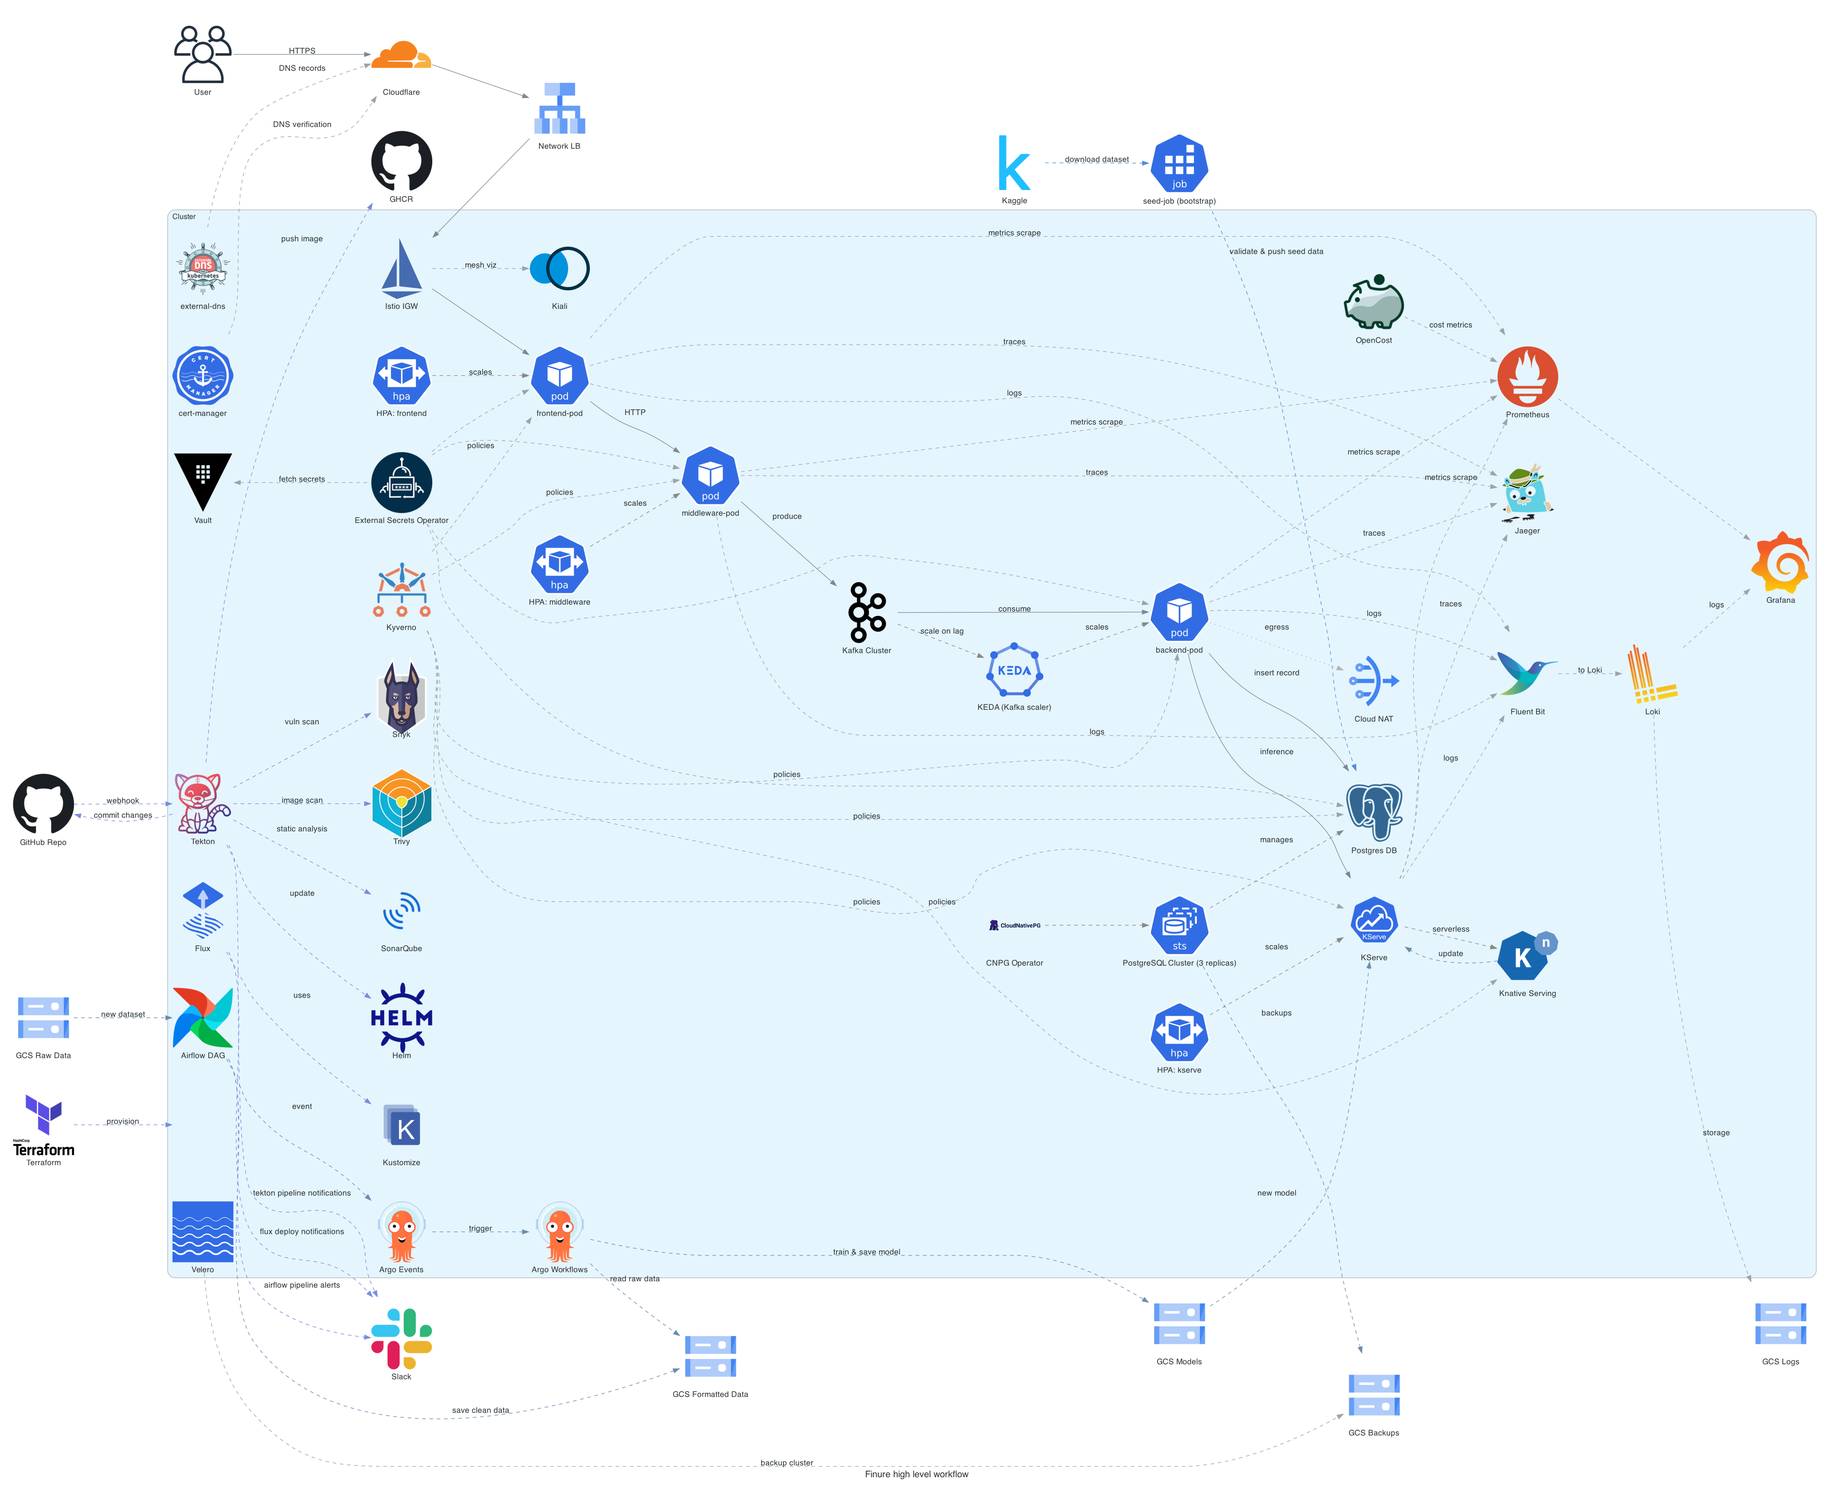
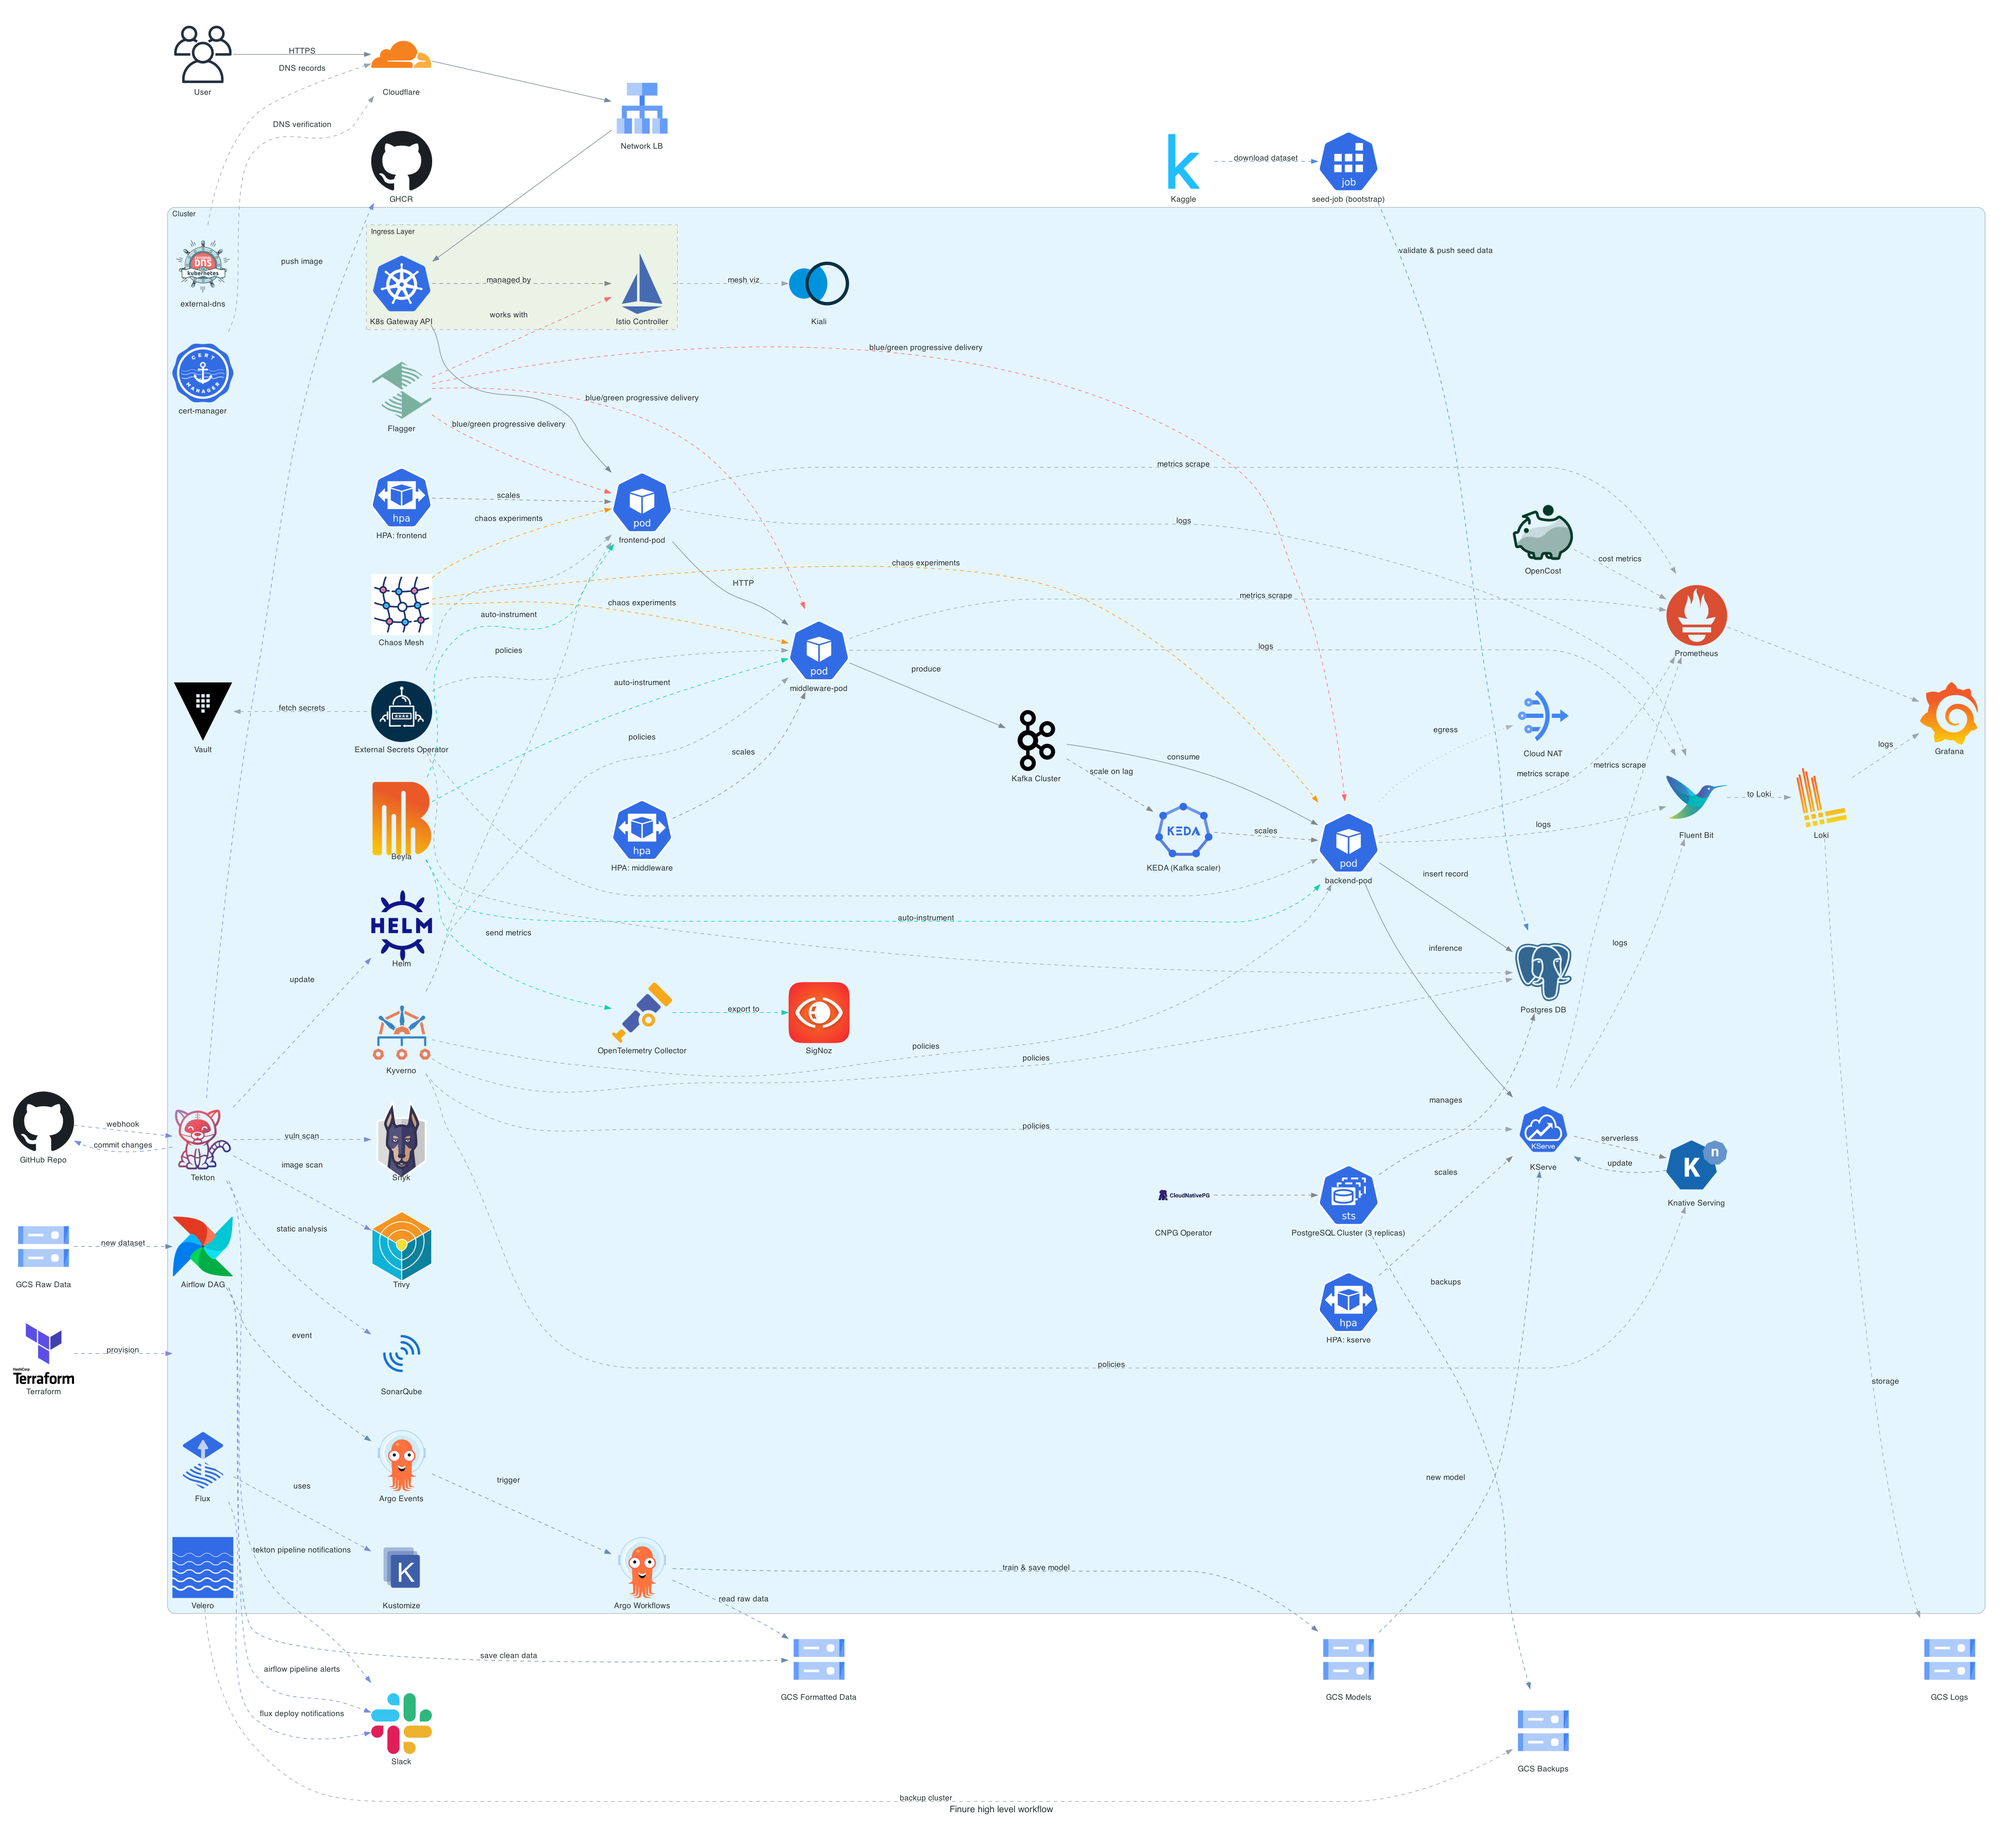
docs: dac & readme update

diff --git a/diagrams-as-code/diagram.py b/diagrams-as-code/diagram.py
@@ -6,10 +6,10 @@ from diagrams.gcp.storage import Storage
 from diagrams.onprem.network import Istio
 from diagrams.k8s.compute import Pod, StatefulSet, Job
 from diagrams.k8s.clusterconfig import HPA
+from diagrams.k8s.chaos import ChaosMesh
 from diagrams.onprem.database import PostgreSQL
 from diagrams.onprem.monitoring import Prometheus, Grafana
 from diagrams.onprem.logging import Loki, Fluentbit
-from diagrams.onprem.tracing import Jaeger
 from diagrams.k8s.ecosystem import ExternalDns, Helm, Kustomize
 from diagrams.onprem.gitops import Flux, Argocd
 from diagrams.saas.chat import Slack
@@ -22,19 +22,24 @@ from diagrams.onprem.iac import Terraform
 from diagrams.custom import Custom
 
 # Custom icons
-KServeIcon   = lambda label: Custom(label, "./icons/kserve.png")
-KnativeIcon  = lambda label: Custom(label, "./icons/knative.png")
+KServeIcon = lambda label: Custom(label, "./icons/kserve.png")
+KnativeIcon = lambda label: Custom(label, "./icons/knative.png")
 CNPGOperIcon = lambda label: Custom(label, "./icons/cnpg-operator.png")
-ESOIcon      = lambda label: Custom(label, "./icons/external-secrets.png")
-KyvernoIcon  = lambda label: Custom(label, "./icons/kyverno.png")
-VeleroIcon   = lambda label: Custom(label, "./icons/velero.png")
-KialiIcon    = lambda label: Custom(label, "./icons/kiali.png")
-CertMgrIcon  = lambda label: Custom(label, "./icons/cert-manager.png")
-SonarIcon    = lambda label: Custom(label, "./icons/sonarqube.png")
-SnykIcon     = lambda label: Custom(label, "./icons/snyk.png")
+ESOIcon = lambda label: Custom(label, "./icons/external-secrets.png")
+KyvernoIcon = lambda label: Custom(label, "./icons/kyverno.png")
+VeleroIcon = lambda label: Custom(label, "./icons/velero.png")
+KialiIcon = lambda label: Custom(label, "./icons/kiali.png")
+CertMgrIcon = lambda label: Custom(label, "./icons/cert-manager.png")
+SonarIcon = lambda label: Custom(label, "./icons/sonarqube.png")
+SnykIcon = lambda label: Custom(label, "./icons/snyk.png")
 OpenCostIcon = lambda label: Custom(label, "./icons/opencost.png")
-KaggleIcon   = lambda label: Custom(label, "./icons/kaggle.png")
-KEDAIcon     = lambda label: Custom(label, "./icons/keda.png") 
+KaggleIcon = lambda label: Custom(label, "./icons/kaggle.png")
+KEDAIcon = lambda label: Custom(label, "./icons/keda.png")
+BeylaIcon = lambda label: Custom(label, "./icons/beyla.png")
+OtelIcon = lambda label: Custom(label, "./icons/otel.png")
+SignozIcon = lambda label: Custom(label, "./icons/signoz.png")
+K8sGatewayIcon = lambda label: Custom(label, "./icons/k8s-gateway-api.png")
+FlaggerIcon = lambda label: Custom(label, "./icons/flagger.png")
 
 with Diagram(
     "Finure high level workflow",
@@ -56,19 +61,22 @@ with Diagram(
     gcs_raw = Storage("GCS Raw Data")
     gcs_formatted = Storage("GCS Formatted Data")
     gcs_models = Storage("GCS Models")
-    gcs_logs  = Storage("GCS Logs")
-    gcs_bkp   = Storage("GCS Backups")
+    gcs_logs = Storage("GCS Logs")
+    gcs_bkp = Storage("GCS Backups")
     slack = Slack("Slack")
     github = Github("GitHub Repo")
     ghcr = Github("GHCR")
     terraform = Terraform("Terraform")
-
     kaggle = KaggleIcon("Kaggle")
     seed_job = Job("seed-job (bootstrap)")
 
     with Cluster("Cluster"):
         cloud_nat = NAT("Cloud NAT")
-        istio_ing = Istio("Istio IGW")
+        
+        with Cluster("Ingress Layer", graph_attr={"style": "dashed"}):
+            k8s_gateway = K8sGatewayIcon("K8s Gateway API")
+            istio_controller = Istio("Istio Controller")
+        
         fe_pod = Pod("frontend-pod")
         mw_pod = Pod("middleware-pod")
         kafka = Kafka("Kafka Cluster")
@@ -93,7 +101,7 @@ with Diagram(
         kyverno = KyvernoIcon("Kyverno")
         velero = VeleroIcon("Velero")
         flux = Flux("Flux")
-        kustomize = Kustomize("Kustomize") 
+        kustomize = Kustomize("Kustomize")
         vault = Vault("Vault")
         opencost = OpenCostIcon("OpenCost")
         airflow = Airflow("Airflow DAG")
@@ -104,12 +112,21 @@ with Diagram(
         trivy = Trivy("Trivy")
         snyk = SnykIcon("Snyk")
         helm = Helm("Helm")
-        jaeger = Jaeger("Jaeger")
         cluster_node = Custom("", "./icons/gke-cluster.png")
+        
+        beyla = BeylaIcon("Beyla")
+        otel_collector = OtelIcon("OpenTelemetry Collector")
+        signoz = SignozIcon("SigNoz")
+        
+        flagger = FlaggerIcon("Flagger")
+        
+        chaos_mesh = ChaosMesh("Chaos Mesh")
+
+    user >> Edge(label="HTTPS") >> cloudflare >> nlb >> k8s_gateway
+    k8s_gateway >> fe_pod >> Edge(label="HTTP") >> mw_pod
     
     # Entry
-    user >> Edge(label="HTTPS") >> cloudflare >> nlb >> istio_ing
-    istio_ing >> fe_pod >> Edge(label="HTTP") >> mw_pod
+    k8s_gateway >> Edge(label="managed by", style="dashed", color="#888", dir="both") >> istio_controller
     mw_pod >> Edge(label="produce") >> kafka
     kafka >> Edge(label="consume") >> be_pod
     be_pod >> Edge(label="inference") >> kserve_pod
@@ -129,11 +146,9 @@ with Diagram(
     gcs_raw >> Edge(label="new dataset", style="dashed", color="#6a8caf") >> airflow
     airflow >> Edge(label="save clean data", style="dashed", color="#6a8caf") >> gcs_formatted
     airflow >> Edge(label="event", style="dashed", color="#6a8caf") >> argo_events
-
     argo_events >> Edge(label="trigger", style="dashed", color="#6a8caf") >> argo_workflows
     argo_workflows >> Edge(label="read raw data", style="dashed", color="#6a8caf") >> gcs_formatted
     argo_workflows >> Edge(label="train & save model", style="dashed", color="#6a8caf") >> gcs_models
-
     gcs_models >> Edge(label="new model", style="dashed", color="#6a8caf") >> kserve_pod
     knative >> Edge(label="update", style="dashed", color="#6a8caf") >> kserve_pod
 
@@ -150,22 +165,43 @@ with Diagram(
     tekton >> Edge(label="tekton pipeline notifications", style="dashed", color="#7b8cde") >> slack
     airflow >> Edge(label="airflow pipeline alerts", style="dashed", color="#7b8cde") >> slack
 
+    # Progressive Delivery with Flagger
+    flagger_edge = {"style": "dashed", "color": "#ff6b6b"}
+    flagger >> Edge(label="blue/green progressive delivery", **flagger_edge) >> fe_pod
+    flagger >> Edge(label="blue/green progressive delivery", **flagger_edge) >> mw_pod
+    flagger >> Edge(label="blue/green progressive delivery", **flagger_edge) >> be_pod
+    flagger >> Edge(label="works with", **flagger_edge) >> istio_controller
+
+    # Auto-instrumentation with Beyla, OTel and SigNoz
+    instrumentation_edge = {"style": "dashed", "color": "#00d4aa"}
+    beyla >> Edge(label="auto-instrument", **instrumentation_edge) >> fe_pod
+    beyla >> Edge(label="auto-instrument", **instrumentation_edge) >> mw_pod
+    beyla >> Edge(label="auto-instrument", **instrumentation_edge) >> be_pod
+    beyla >> Edge(label="send metrics", **instrumentation_edge) >> otel_collector
+    otel_collector >> Edge(label="export to", **instrumentation_edge) >> signoz
+
+    # Chaos Engineering
+    chaos_edge = {"style": "dashed", "color": "#ff9500"}
+    chaos_mesh >> Edge(label="chaos experiments", **chaos_edge) >> fe_pod
+    chaos_mesh >> Edge(label="chaos experiments", **chaos_edge) >> mw_pod
+    chaos_mesh >> Edge(label="chaos experiments", **chaos_edge) >> be_pod
+
     # Observability
     subtle = {"style": "dashed", "color": "#9aa4ad"}
     for w in [fe_pod, mw_pod, be_pod, kserve_pod]:
         w >> Edge(label="metrics scrape", **subtle) >> prom
         w >> Edge(label="logs", **subtle) >> fluentbit
-        w >> Edge(label="traces", **subtle) >> jaeger
+
     prom >> Edge(**subtle) >> graf
     fluentbit >> Edge(label="to Loki", **subtle) >> loki
     loki >> Edge(label="storage", **subtle) >> gcs_logs
     loki >> Edge(label="logs", **subtle) >> graf
-    istio_ing >> Edge(label="mesh viz", **subtle) >> kiali
+    istio_controller >> Edge(label="mesh viz", **subtle) >> kiali
     opencost >> Edge(label="cost metrics", **subtle) >> prom
 
     # DNS/TLS
     certmgr >> Edge(label="DNS verification", **subtle) >> cloudflare
-    extdns  >> Edge(label="DNS records", **subtle) >> cloudflare
+    extdns >> Edge(label="DNS records", **subtle) >> cloudflare
 
     # Secrets
     vault << Edge(label="fetch secrets", **subtle) << eso

diff --git a/profile/README.md b/profile/README.md
@@ -19,11 +19,13 @@ Finure is a cloud-native application designed to streamline the credit card appl
 - Parallel, Reliable & Governed Infra Changes: Atlantis integration for PR-based, machine-oriented Terraform executions with custom workflows
 - Checkov Integration: Validates Terraform code for security and best practices
 - YAML Abstraction: Reduces complexity of Terraform code using YAML for defining resources for Finure microservices
+- Flagger Integration: Blue/Green progressive delivery for Finure microservices updates with automated rollouts using smoke and load tests along with rollbacks
 
 ### Application Infrastructure (Helm & Kubernetes)
-- Apps & Infra Deployments: Flux resources for deploying infra components such as Airflow, Argo Events, Argo Workflows, Atlantis, Kafka, Kserve, Knative, KEDA, Istio, PostgreSQL, SonarQube, Velero, Tekton and more and applications such as app-frontend, app-backend, app-gateway, app-seedjob
-- Observability Stack: Prometheus, Grafana, Fluent Bit, Loki, Jaeger, Kiali, OpenTelemetry and Opencost
+- Apps & Infra Deployments: Flux resources for deploying infra components such as Airflow, Argo Events, Argo Workflows, Atlantis, Kafka, Kserve, Knative, KEDA, Istio, PostgreSQL, SonarQube, Velero, Tekton, Chaos Mesh, Kubernetes Gateway API with Istio controller, Chaos Mesh and more and applications such as app-frontend, app-backend, app-gateway, app-seedjob
+- Observability Stack: Prometheus, Grafana, Fluent Bit, Loki, Kiali, Beyla, OpenTelemetry, SigNoz and Opencost
 - Security & Policy: Hashicorp Vault, Cert-Manager, Kyverno, External-DNS, Reflector, External Secrets Operator
+- Progressive delivery: Blue/Green progressive delivery using Flagger for Finure microservices updates with automated rollouts using smoke and load tests along with rollbacks
 
 ### CI/CD & Automation (Tekton, Atlantis, GitHub Actions)
 - Tekton Pipelines: End-to-end CI/CD for all Finure repos, triggered by GitHub webhooks. Includes linting, security scans (Checkov, Snyk, SonarQube, Trivy), multi-stage multi-arch builds (Buildah), image publishing (GHCR), Helm chart updates, GitHub releases, automatic rollouts via Flux and Slack/GitHub notifications
